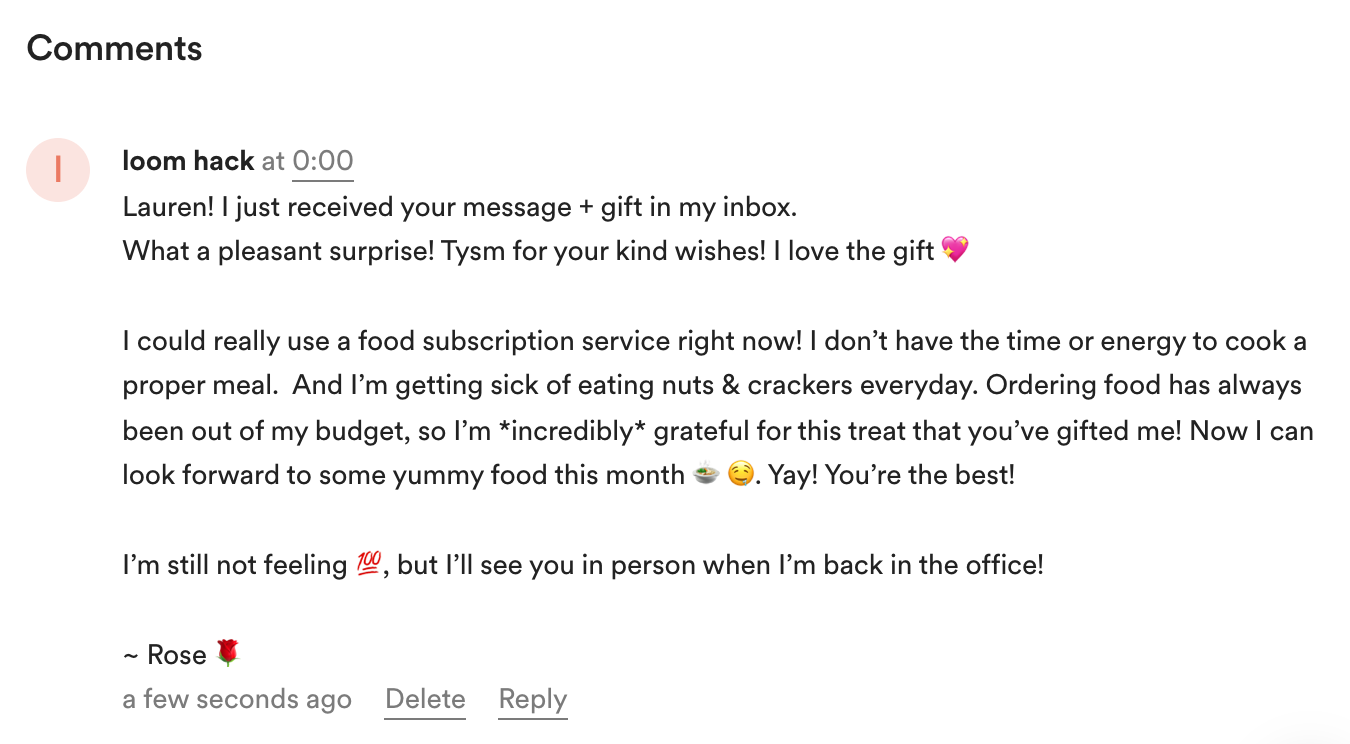
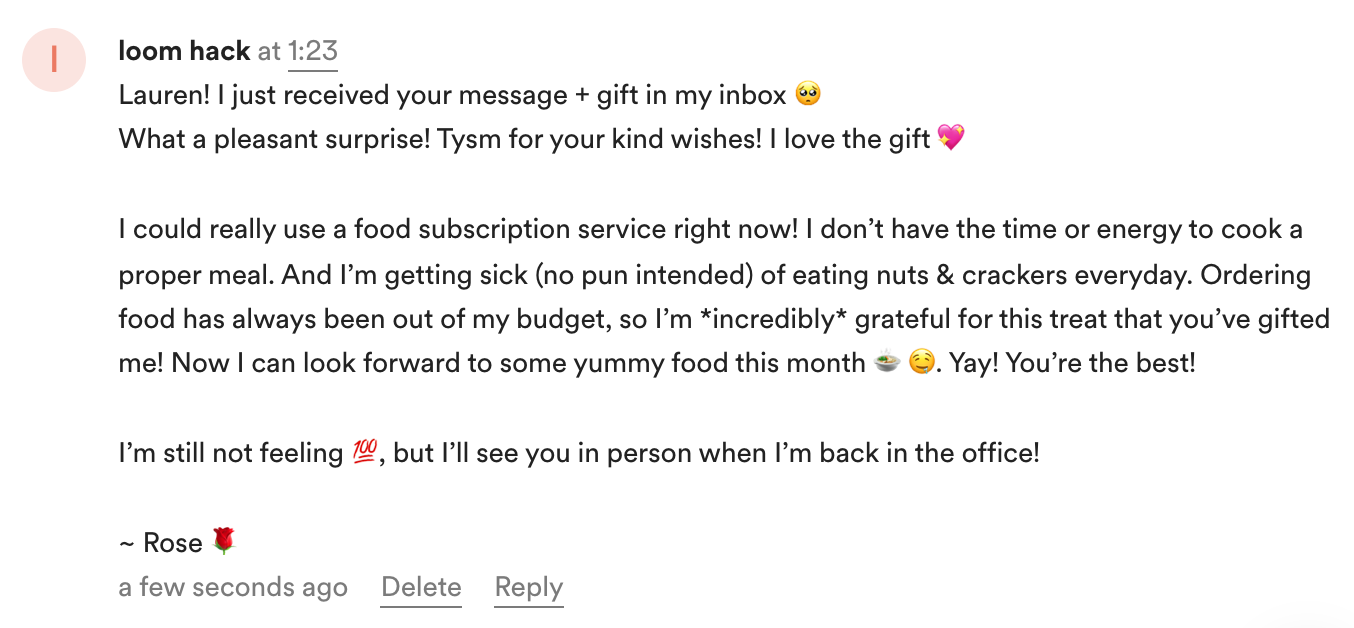
add action item examples

diff --git a/README.md b/README.md
@@ -1,7 +1,7 @@
 # Loom Greeting Kit
 
 ## Table of Contents 
-**[Installation](#installation)** &nbsp;| &nbsp; **[Configure your environment](#configuring-your-environment)** &nbsp; | &nbsp; **[Description](#description)** &nbsp; | &nbsp; **[Loom Video Demos](#loom-video-demos)**
+**[Installation](#installation)** &nbsp;| &nbsp; **[Configure your environment](#configuring-your-environment)** &nbsp; | &nbsp; **[Description](#description)** &nbsp; | &nbsp; **[Loom Video Demos](#loom-video-demos)** &nbsp; | &nbsp; **[Action Items](#action-items)**
 <br/>
 
 ## Installation 
@@ -41,5 +41,13 @@ More details in **[brainstorm/outline.txt](./brainstorm/outline.txt)**
 
 <br/>
 
-## Recipient Response Example - Video Comment
+## Action Items
+### Recipient response example - video comment
 <img alt="video-comment-response" src="public/static/img/video-comment.png" width="650px" height=""/>
+
+### E-Gift example via Loom CTA
+<a href="https://www.freshly.com/gifts/redeem" target="_blank"><img alt="video-comment-response" src="public/static/img/loom-gift-CTA.png" width="300px" height=""/></a>
+
+<a href="https://www.freshly.com/gifts/redeem" target="_blank"><img alt="loom hack demo" src="public/static/img/gift-url-CTA.png" width="300px" height=""/></a>
+
+
